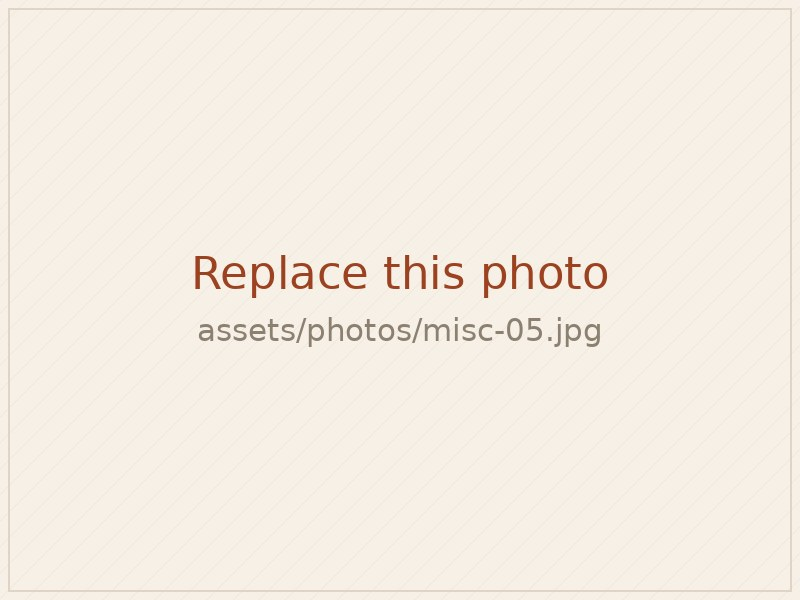
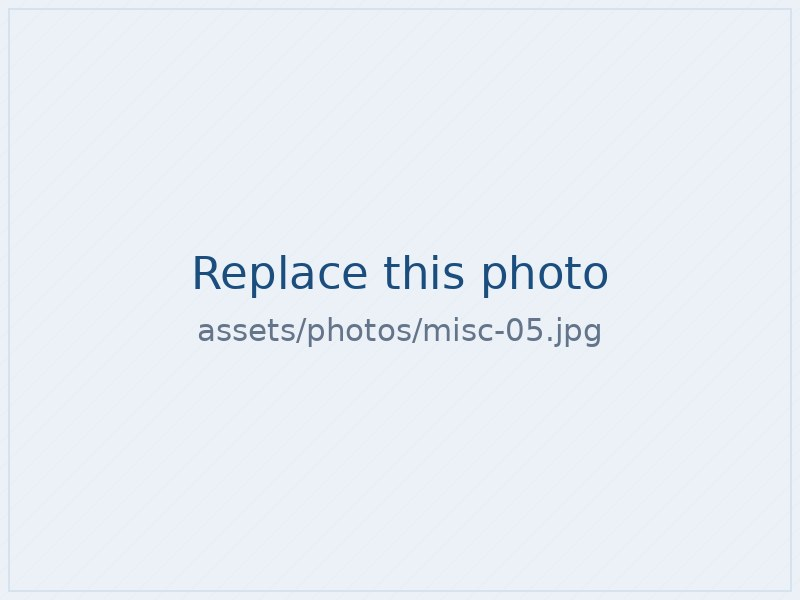
Add files via upload

Changed region(s): [[0.2188, 0.42, 0.7812, 0.6], [0.0, 0.96, 1.0, 0.99], [0.0, 0.0, 1.0, 0.03]]

diff --git a/assets/styles.css b/assets/styles.css
@@ -5,17 +5,17 @@
    ========================================================================== */
 
 :root {
-  --bg:          #FCF9F4;
-  --bg-tint:     #F6F0E7;
+  --bg:          #F8FAFC;
+  --bg-tint:     #EBF1F7;
   --surface:     #FFFFFF;
-  --ink:         #211D18;
-  --ink-soft:    #453D34;
-  --muted:       #756A5D;
-  --rule:        #E6DCCD;
-  --accent:      #9C4221;
-  --accent-deep: #7A3319;
-  --accent-soft: #F4E6DC;
-  --teal:        #1F4B4E;
+  --ink:         #101922;
+  --ink-soft:    #33414F;
+  --muted:       #64748B;
+  --rule:        #DAE3EC;
+  --accent:      #1B4E7E;
+  --accent-deep: #123859;
+  --accent-soft: #E1ECF6;
+  --teal:        #0E5E5A;
 
   --font-display: "Fraunces", "Iowan Old Style", "Palatino Linotype", Palatino,
                   Georgia, "Times New Roman", serif;
@@ -29,17 +29,17 @@
 
 @media (prefers-color-scheme: dark) {
   :root {
-    --bg:          #14120F;
-    --bg-tint:     #1C1915;
-    --surface:     #1A1713;
-    --ink:         #F1EAE0;
-    --ink-soft:    #DCD3C7;
-    --muted:       #A79B8B;
-    --rule:        #332D25;
-    --accent:      #E08256;
-    --accent-deep: #F0A280;
-    --accent-soft: #2A1E17;
-    --teal:        #7FB3B5;
+    --bg:          #0B1017;
+    --bg-tint:     #121A24;
+    --surface:     #101821;
+    --ink:         #E8EFF6;
+    --ink-soft:    #C7D3DF;
+    --muted:       #8FA0B2;
+    --rule:        #1F2A36;
+    --accent:      #74B4EA;
+    --accent-deep: #9BCCF5;
+    --accent-soft: #12202D;
+    --teal:        #6FBFB6;
     --shadow: 0 1px 2px rgba(0,0,0,.3), 0 8px 24px -12px rgba(0,0,0,.6);
   }
 }

diff --git a/README.md b/README.md
@@ -1,4 +1,4 @@
-# fiorellapizzolon.github.io
+# fiorella-pizzolon.github.io
 
 Personal academic website — Fiorella Pizzolon, Assistant Professor of Economics, Hamilton College.
 
